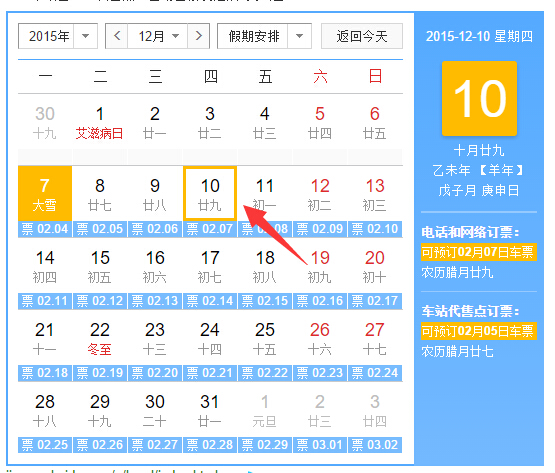
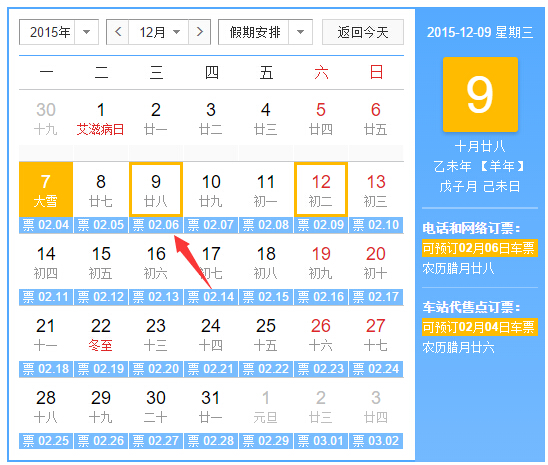
add img

Changed region(s): [[0.0, 0.0, 1.0, 1.0]]

diff --git a/qp.html b/qp.html
@@ -9,10 +9,20 @@
 	<p>抢票软件很多，能抢到就好</p>
 	<h3>一，强票策略</h3>
 	<p>目前火车票最早提前60天发售，但要精确到秒，用软件自动提交，以2016春节为例</p>
-	<img src="" alt="">
+	<section>
+		<img src="https://github.com/bdma/bdma.github.io/tree/master/img/fjia.jpg" alt="">
+		<p>放假日历，2月7日除夕，周日奥，所以到时6号（周六）基本就没人啦，5号（周五）走就看老板可爱度啦。</p>		
+	</section>
+	<section>
+		<img src="https://github.com/bdma/bdma.github.io/tree/master/img/rili.jpg" alt="">
+		<p>以抢2月6号为例，就必须在12月9号抢！</p>
+	</section>
+	<p>我们要具体到秒，那还要看各站的起售时间，以上海站为例，共有4个起售时间：13:30,14:30,15:30,16:00,<a href="http://www.12306.cn/mormhweb/zxdt/201411/t20141126_2316.html">查询起售时间网址</a>ctrl+f后输“上海”</p>
+	<img src="https://github.com/bdma/bdma.github.io/tree/master/img/qssj.jpg" alt="起售时间">
 	<h3>二，软件下载</h3>
 	<p>1，<a href="http://www.12306bypass.com/Download.aspx?name=12306Bypass.zip">12306分流抢票</a><br>
 	2，win7以前的系统还可能需要<a href="http://www.microsoft.com/zh-cn/download/confirmation.aspx?id=17718">Microsoft. NET Framework 4.0</a>因为软件是基于.Net4.0框架开发。</p>
 	<h3>三，软件使用</h3>
+	
 </body>
 </html>
